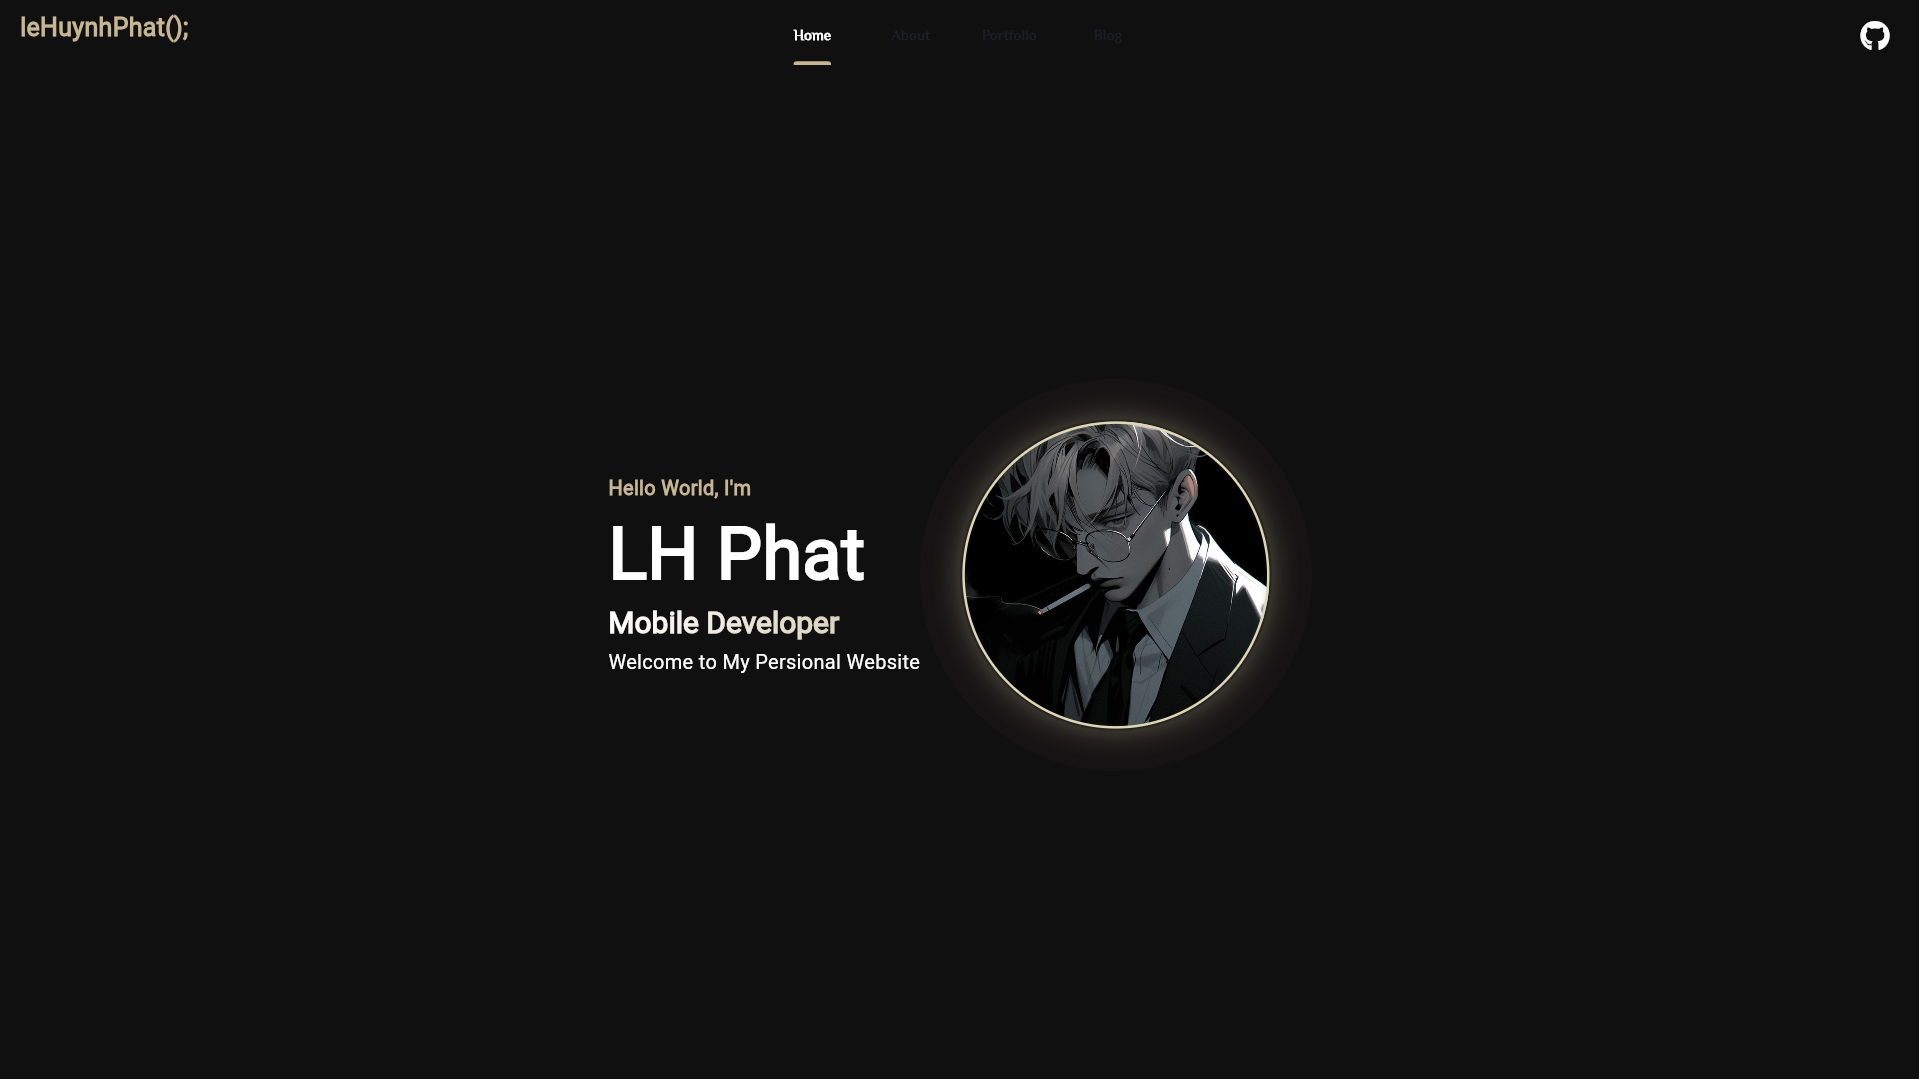
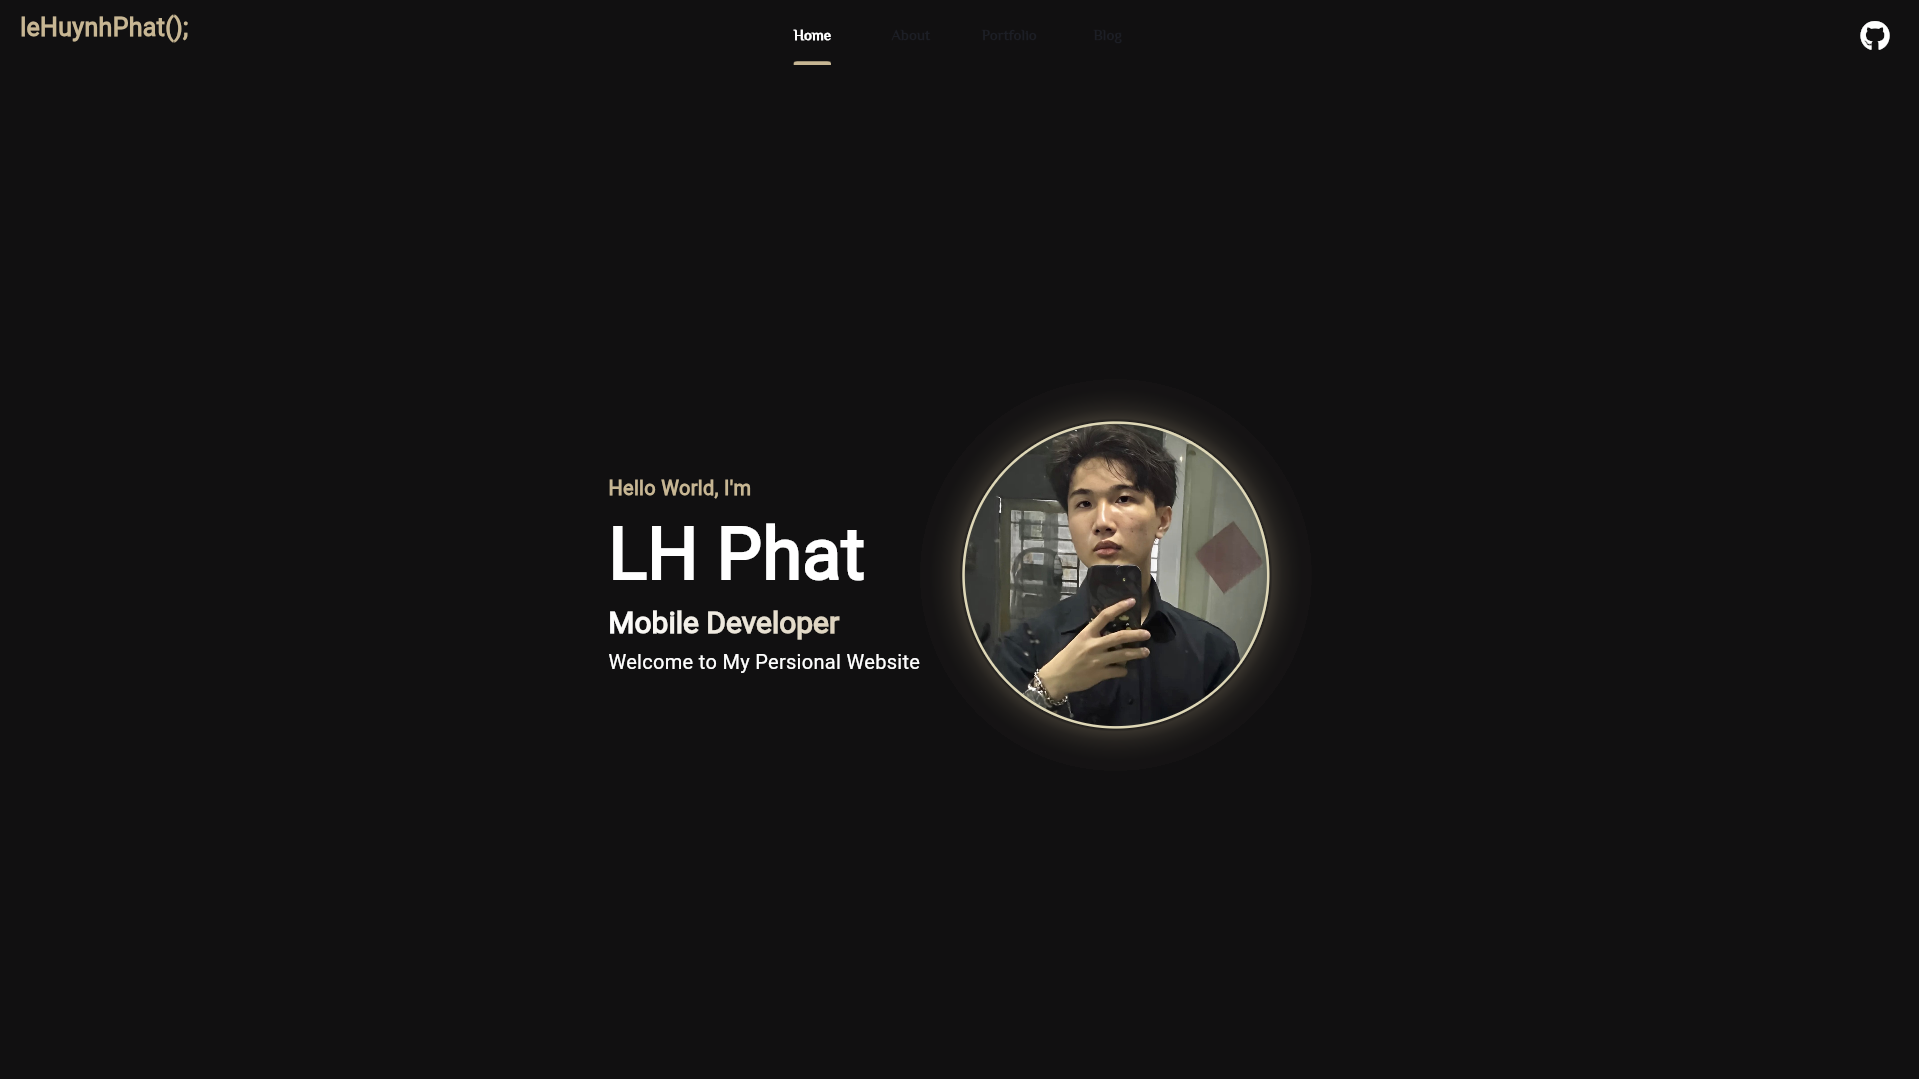
release

Changed region(s): [[0.4919, 0.3976, 0.6764, 0.6728]]

diff --git a/public/index.html b/public/index.html
@@ -1,0 +1,89 @@
+<!DOCTYPE html>
+<html>
+  <head>
+    <meta charset="utf-8">
+    <meta name="viewport" content="width=device-width, initial-scale=1">
+    <title>Welcome to Firebase Hosting</title>
+
+    <!-- update the version number as needed -->
+    <script defer src="/__/firebase/10.12.2/firebase-app-compat.js"></script>
+    <!-- include only the Firebase features as you need -->
+    <script defer src="/__/firebase/10.12.2/firebase-auth-compat.js"></script>
+    <script defer src="/__/firebase/10.12.2/firebase-database-compat.js"></script>
+    <script defer src="/__/firebase/10.12.2/firebase-firestore-compat.js"></script>
+    <script defer src="/__/firebase/10.12.2/firebase-functions-compat.js"></script>
+    <script defer src="/__/firebase/10.12.2/firebase-messaging-compat.js"></script>
+    <script defer src="/__/firebase/10.12.2/firebase-storage-compat.js"></script>
+    <script defer src="/__/firebase/10.12.2/firebase-analytics-compat.js"></script>
+    <script defer src="/__/firebase/10.12.2/firebase-remote-config-compat.js"></script>
+    <script defer src="/__/firebase/10.12.2/firebase-performance-compat.js"></script>
+    <!-- 
+      initialize the SDK after all desired features are loaded, set useEmulator to false
+      to avoid connecting the SDK to running emulators.
+    -->
+    <script defer src="/__/firebase/init.js?useEmulator=true"></script>
+
+    <style media="screen">
+      body { background: #ECEFF1; color: rgba(0,0,0,0.87); font-family: Roboto, Helvetica, Arial, sans-serif; margin: 0; padding: 0; }
+      #message { background: white; max-width: 360px; margin: 100px auto 16px; padding: 32px 24px; border-radius: 3px; }
+      #message h2 { color: #ffa100; font-weight: bold; font-size: 16px; margin: 0 0 8px; }
+      #message h1 { font-size: 22px; font-weight: 300; color: rgba(0,0,0,0.6); margin: 0 0 16px;}
+      #message p { line-height: 140%; margin: 16px 0 24px; font-size: 14px; }
+      #message a { display: block; text-align: center; background: #039be5; text-transform: uppercase; text-decoration: none; color: white; padding: 16px; border-radius: 4px; }
+      #message, #message a { box-shadow: 0 1px 3px rgba(0,0,0,0.12), 0 1px 2px rgba(0,0,0,0.24); }
+      #load { color: rgba(0,0,0,0.4); text-align: center; font-size: 13px; }
+      @media (max-width: 600px) {
+        body, #message { margin-top: 0; background: white; box-shadow: none; }
+        body { border-top: 16px solid #ffa100; }
+      }
+    </style>
+  </head>
+  <body>
+    <div id="message">
+      <h2>Welcome</h2>
+      <h1>Firebase Hosting Setup Complete</h1>
+      <p>You're seeing this because you've successfully setup Firebase Hosting. Now it's time to go build something extraordinary!</p>
+      <a target="_blank" href="https://firebase.google.com/docs/hosting/">Open Hosting Documentation</a>
+    </div>
+    <p id="load">Firebase SDK Loading&hellip;</p>
+
+    <script>
+      document.addEventListener('DOMContentLoaded', function() {
+        const loadEl = document.querySelector('#load');
+        // // 🔥🔥🔥🔥🔥🔥🔥🔥🔥🔥🔥🔥🔥🔥🔥🔥🔥🔥🔥🔥🔥🔥🔥🔥🔥🔥🔥🔥🔥🔥🔥
+        // // The Firebase SDK is initialized and available here!
+        //
+        // firebase.auth().onAuthStateChanged(user => { });
+        // firebase.database().ref('/path/to/ref').on('value', snapshot => { });
+        // firebase.firestore().doc('/foo/bar').get().then(() => { });
+        // firebase.functions().httpsCallable('yourFunction')().then(() => { });
+        // firebase.messaging().requestPermission().then(() => { });
+        // firebase.storage().ref('/path/to/ref').getDownloadURL().then(() => { });
+        // firebase.analytics(); // call to activate
+        // firebase.analytics().logEvent('tutorial_completed');
+        // firebase.performance(); // call to activate
+        //
+        // // 🔥🔥🔥🔥🔥🔥🔥🔥🔥🔥🔥🔥🔥🔥🔥🔥🔥🔥🔥🔥🔥🔥🔥🔥🔥🔥🔥🔥🔥🔥🔥
+
+        try {
+          let app = firebase.app();
+          let features = [
+            'auth', 
+            'database', 
+            'firestore',
+            'functions',
+            'messaging', 
+            'storage', 
+            'analytics', 
+            'remoteConfig',
+            'performance',
+          ].filter(feature => typeof app[feature] === 'function');
+          loadEl.textContent = `Firebase SDK loaded with ${features.join(', ')}`;
+        } catch (e) {
+          console.error(e);
+          loadEl.textContent = 'Error loading the Firebase SDK, check the console.';
+        }
+      });
+    </script>
+  </body>
+</html>

diff --git a/lib/pages/about_page.dart b/lib/pages/about_page.dart
@@ -57,7 +57,8 @@ class AboutPage extends StatelessWidget {
                       ),
                       const CircleAvatar(
                         radius: 150,
-                        backgroundImage: AssetImage('assets/images/avatar.jpg'),
+                        backgroundImage:
+                            AssetImage('assets/images/my_avatar.jpg'),
                       ).animate().slide(
                             begin: const Offset(0, 0.3),
                             duration: const Duration(milliseconds: 300),

diff --git a/lib/pages/home_page.dart b/lib/pages/home_page.dart
@@ -90,8 +90,8 @@ class HomePage extends StatelessWidget {
                 border: Border.all(color: const Color(0xffece5c3), width: 2),
                 shape: BoxShape.circle,
                 image: const DecorationImage(
-                    image: AssetImage('assets/images/avatar.jpg'),
-                    fit: BoxFit.cover)),
+                    image: AssetImage('assets/images/my_avatar.jpg'),
+                    fit: BoxFit.fitWidth)),
           ),
         )
       ],

diff --git a/lib/main.dart b/lib/main.dart
@@ -13,7 +13,7 @@ class MyApp extends StatelessWidget {
   @override
   Widget build(BuildContext context) {
     return MaterialApp(
-      title: 'My Portfolio',
+      title: 'Le Huynh Phat',
       initialRoute: Routes.mainPage,
       onGenerateRoute: RouteGenerator.getRoute,
       debugShowCheckedModeBanner: false,
